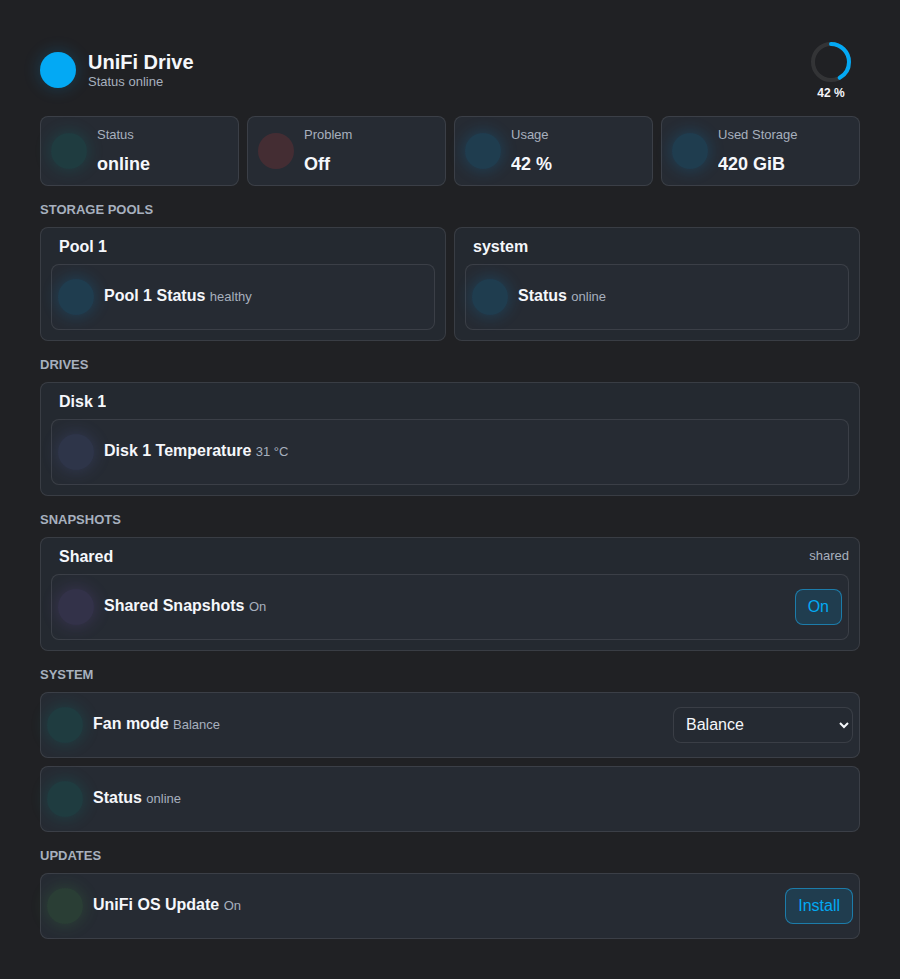
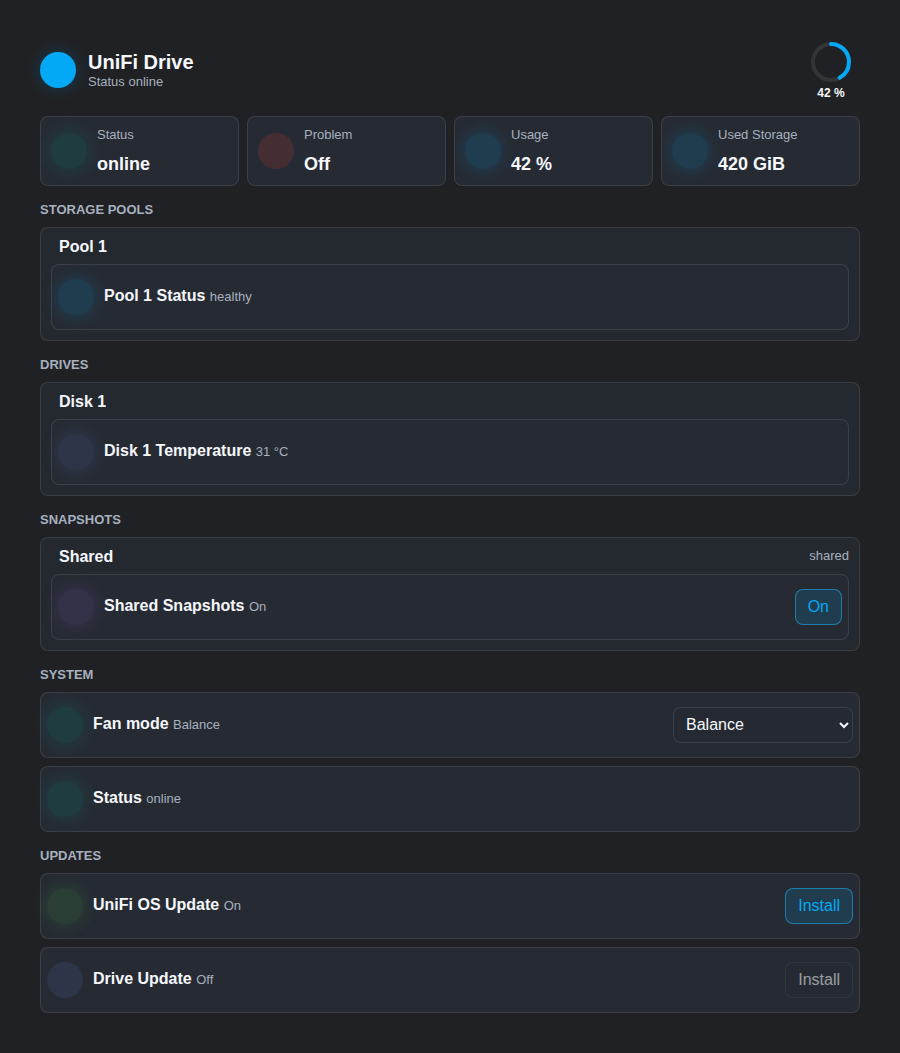
Raise card quality to 9.5
Harden dynamic discovery, label normalization and required quality checks.

Built with Codex.

diff --git a/test/discovery.test.ts b/test/discovery.test.ts
@@ -86,6 +86,45 @@ describe("discoverEntities", () => {
     });
   });
 
+  it("does not classify generic drive status aliases as pool status", () => {
+    const hass: HomeAssistant = {
+      states: {
+        "sensor.disk_1_status": entity("healthy", {
+          friendly_name: "Disk 1 Status",
+        }),
+        "sensor.pool_1_status": entity("healthy", {
+          friendly_name: "Pool 1 Status",
+        }),
+      },
+      entities: {
+        "sensor.disk_1_status": registry(
+          "dev-a",
+          "drive_status",
+          "unifi_drive_entry_drive_disk-1_status",
+        ),
+        "sensor.pool_1_status": registry(
+          "dev-a",
+          "pool_status",
+          "unifi_drive_entry_pool_pool-1_status",
+        ),
+      },
+      callService: async () => undefined,
+    };
+
+    const discovered = discoverEntities(hass, normalizeConfig({ device_id: "dev-a" }));
+
+    expect(discovered.groups.drive).toHaveLength(1);
+    expect(discovered.groups.drive[0]).toMatchObject({
+      id: "disk-1",
+      entityIds: { drive_status: "sensor.disk_1_status" },
+    });
+    expect(discovered.groups.pool).toHaveLength(1);
+    expect(discovered.groups.pool[0]).toMatchObject({
+      id: "pool-1",
+      entityIds: { pool_status: "sensor.pool_1_status" },
+    });
+  });
+
   it("honors explicit overrides before discovery", () => {
     const hass: HomeAssistant = {
       states: {

diff --git a/src/discovery.ts b/src/discovery.ts
@@ -276,6 +276,9 @@ function dynamicDefinitionMatches(
   if (!entityId.startsWith(`${definition.domain}.`)) {
     return false;
   }
+  if (definition.dynamic && !hasDynamicKindEvidence(entityId, state, registry, definition.dynamic)) {
+    return false;
+  }
   const aliases = definitionAliases(definition);
   const extraAliases = DYNAMIC_KEY_ALIASES[definition.key] ?? [];
   const candidates = [
@@ -296,6 +299,29 @@ function dynamicDefinitionMatches(
         candidate.includes(alias),
     ),
   );
+}
+
+function hasDynamicKindEvidence(
+  entityId: string,
+  state: HassEntity,
+  registry: HassRegistryEntity | undefined,
+  kind: EntityGroupKind,
+): boolean {
+  if (attributeText(state, groupIdAttribute(kind)) || attributeText(state, groupNameAttribute(kind))) {
+    return true;
+  }
+  const uniqueId = slugify(registry?.unique_id ?? "");
+  if (uniqueId.includes(`_${kind}_`)) {
+    return true;
+  }
+  const objectId = objectIdFromEntityId(entityId);
+  if (objectId.startsWith(`${kind}_`) || objectId.includes(`_${kind}_`)) {
+    return true;
+  }
+  if (kind === "drive") {
+    return objectId.startsWith("disk_") || objectId.includes("_disk_");
+  }
+  return false;
 }
 
 function groupForEntity(
@@ -384,7 +410,7 @@ function groupIdFromUniqueId(
     if (uniqueId.endsWith(suffix)) {
       const stripped = uniqueId.slice(0, -suffix.length);
       const marker = `_${kind}_`;
-      const markerIndex = stripped.indexOf(marker);
+      const markerIndex = stripped.lastIndexOf(marker);
       if (markerIndex >= 0) {
         return stripped.slice(markerIndex + marker.length);
       }

diff --git a/test/format.test.ts b/test/format.test.ts
@@ -8,6 +8,10 @@ describe("display text", () => {
     expect(stripDeviceNamePrefix("Ubiquiti UniFi Drive Storage Used")).toBe("Used");
   });
 
+  it("keeps Drive application names that are not device prefixes", () => {
+    expect(stripDeviceNamePrefix("Drive Update")).toBe("Drive Update");
+  });
+
   it("uses the fallback when the value is only the device prefix", () => {
     expect(normalizeDisplayText("UniFi Drive", "System status")).toBe("System status");
   });

diff --git a/src/display-text.ts b/src/display-text.ts
@@ -3,7 +3,7 @@ import type { EntityDefinition, HassEntity, HomeAssistant } from "./types";
 
 const TEXT_UNAVAILABLE_STATES = new Set(["unavailable"]);
 const DEVICE_PREFIX_PATTERN =
-  /^(?:(?:ubiquiti|unifi)\s+)?(?:unifi[\s_-]*)?drive(?:\s*\/\s*unas|\s+unas)?\b/i;
+  /^(?:ubiquiti\s+)?(?:unifi[\s_-]*drive|unas)(?:\s*\/\s*unas|\s+unas)?\b/i;
 const DEVICE_PREFIX_DECORATION =
   /^(?:\s*(?:card|integration|unas|storage|system))?(?:\s*[-:–—/|]\s*|\s+|$)/i;
 

diff --git a/docs/development.md b/docs/development.md
@@ -24,12 +24,14 @@ npm run build
 npm run compat
 npm run license-check
 npm run anonymization-check
+npm run security-audit
 npm run check
 npm run render-smoke
 ```
 
 `npm run check` runs type checking, linting, unit tests, production build, HACS
-compatibility, license notice validation and anonymization checks.
+compatibility, license notice validation, anonymization checks and a runtime
+dependency security audit.
 
 `npm run render-smoke` builds the bundle and verifies in Chromium that the card
 renders, groups dynamic UniFi Drive entities, hides dangerous actions by default

diff --git a/README.md b/README.md
@@ -111,6 +111,7 @@ Common options:
 npm run check
 npm run render-smoke
 npm run anonymization-check
+npm run security-audit
 ```
 
 Live Home Assistant smoke uses environment variables only: